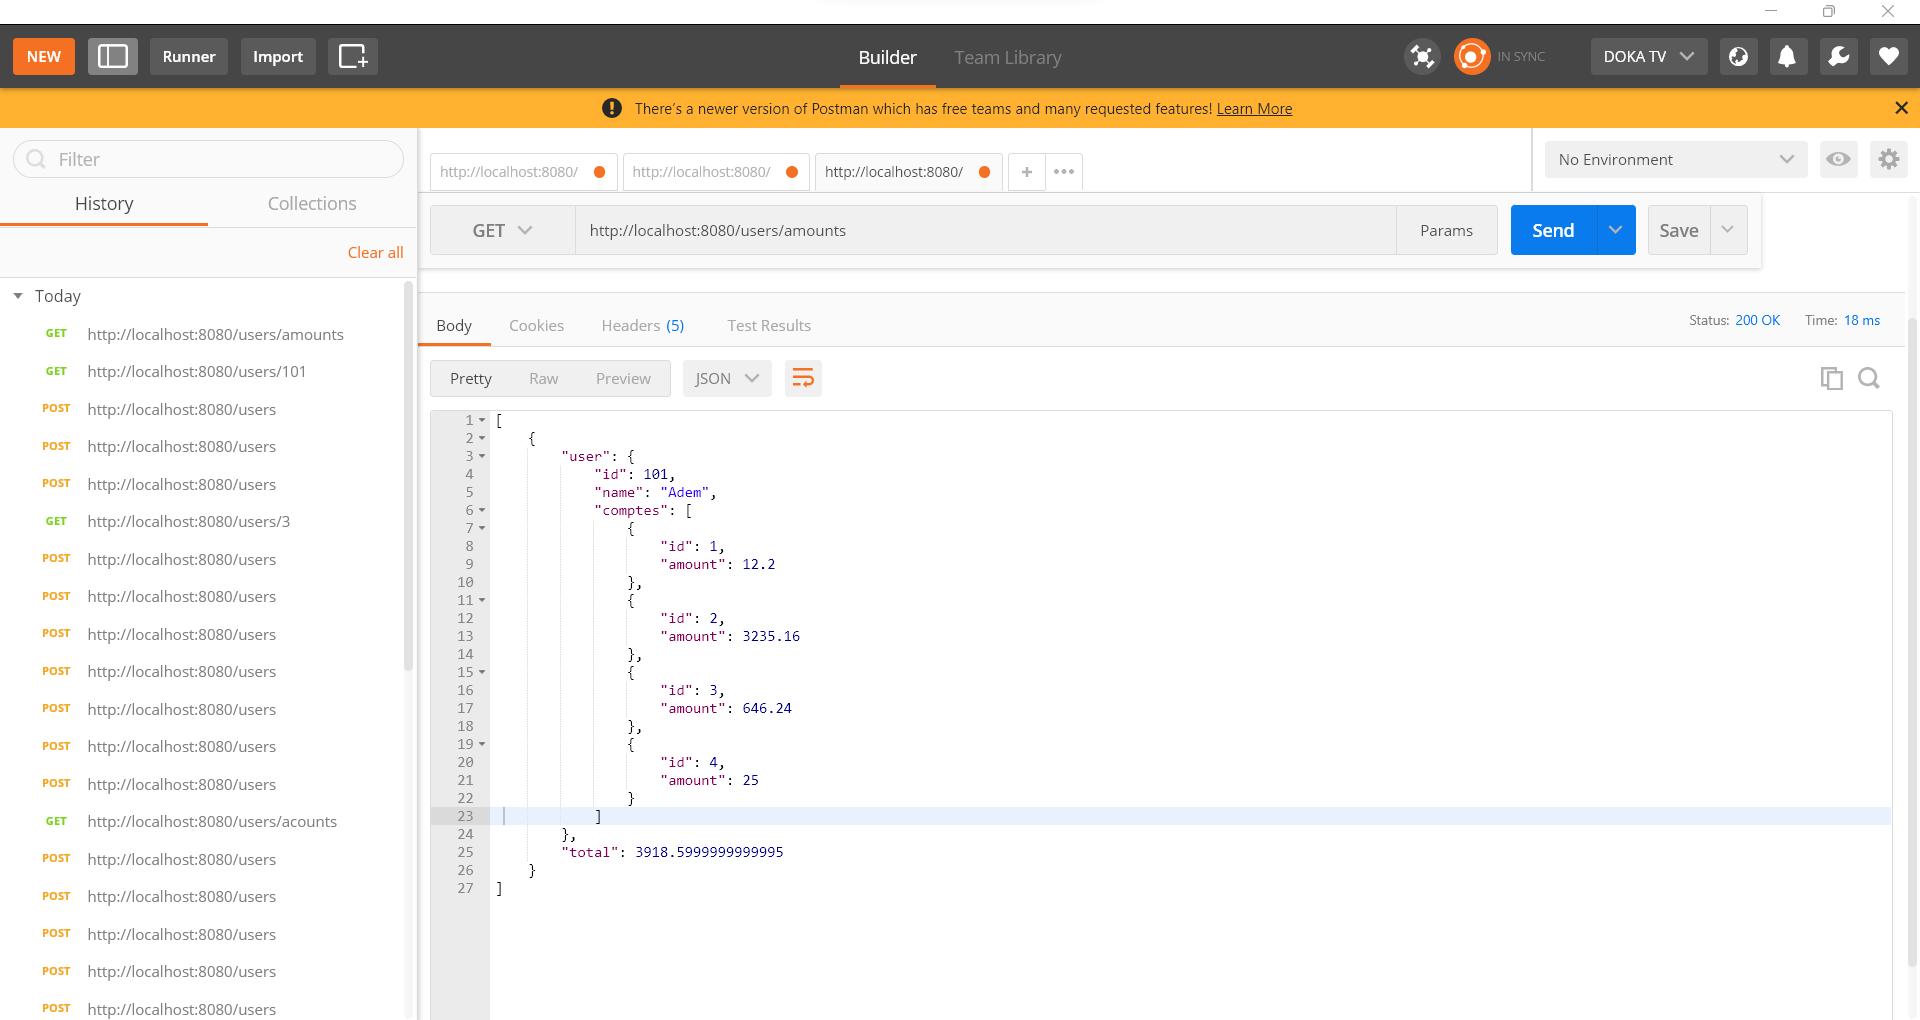
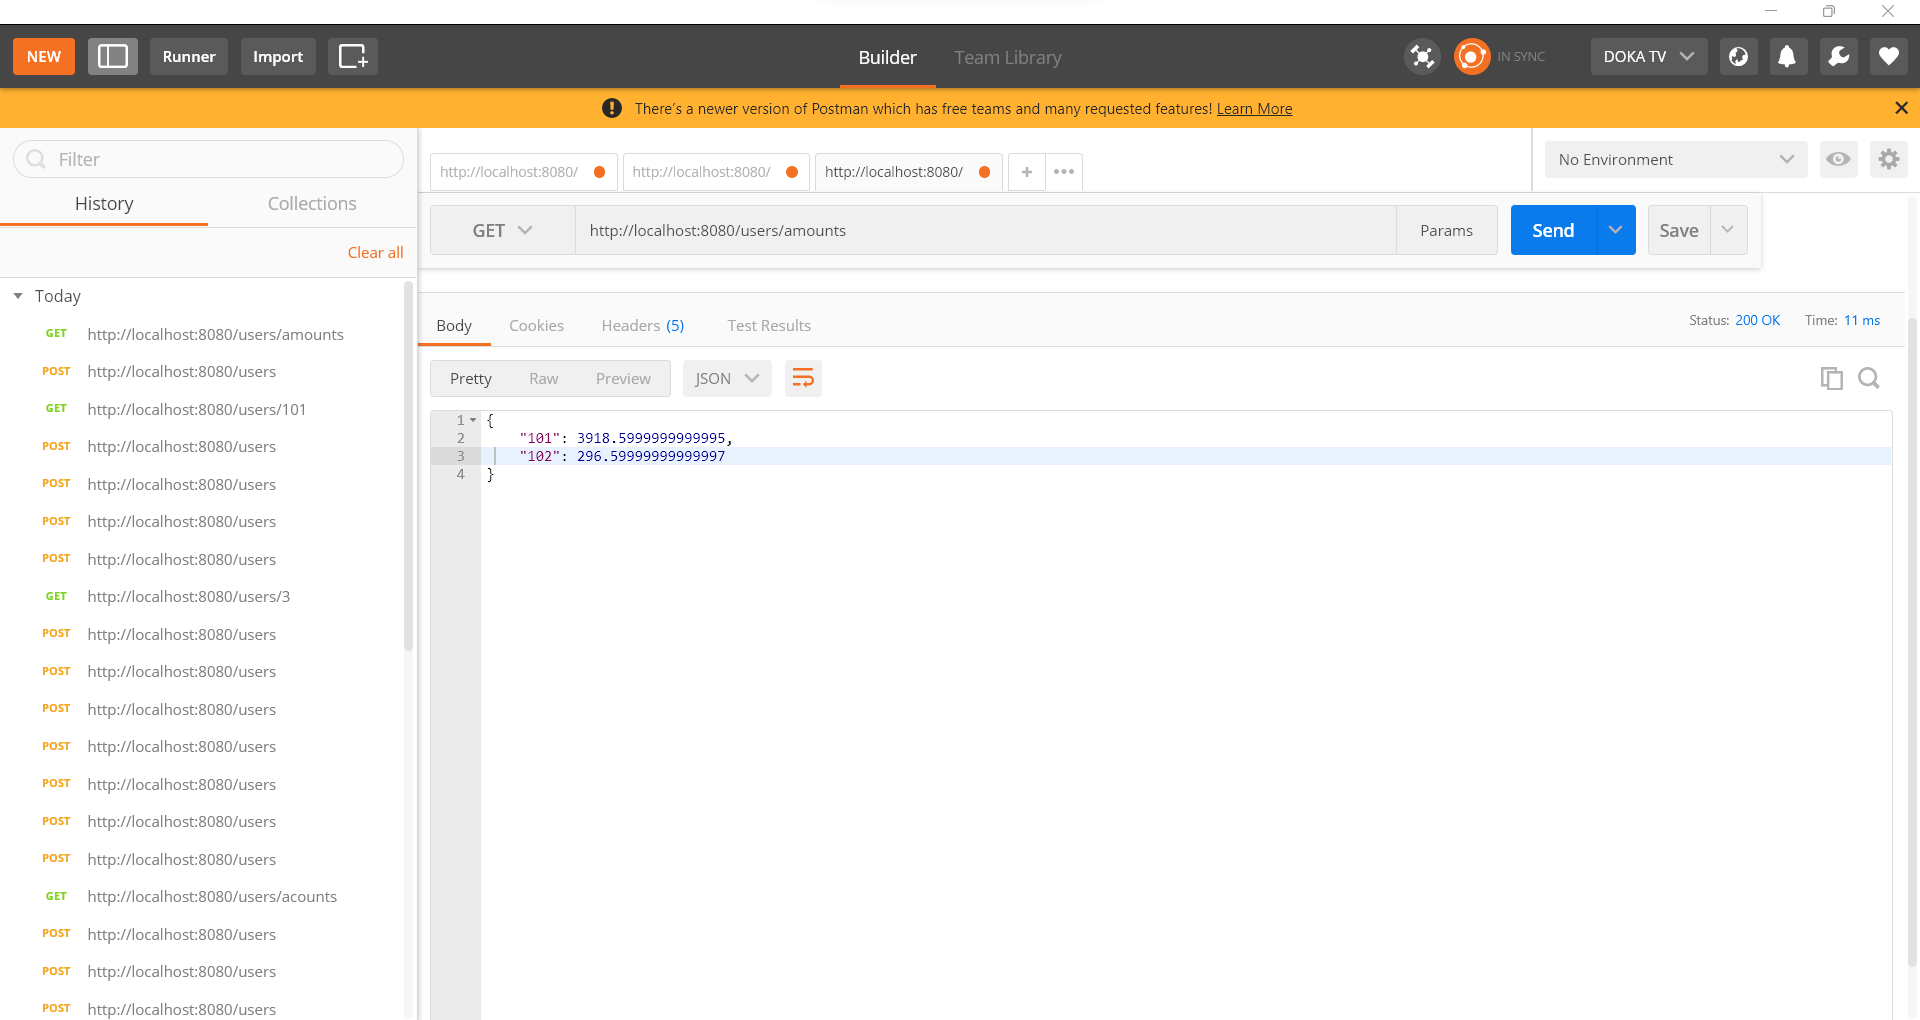
screenshots

diff --git a/src/main/java/com/wbo/springkafkastarter/service/KafkaListenerService.java b/src/main/java/com/wbo/springkafkastarter/service/KafkaListenerService.java
@@ -1,14 +1,13 @@
 package com.wbo.springkafkastarter.service;
 
 import com.wbo.springkafkastarter.dtos.UserDto;
-import com.wbo.springkafkastarter.dtos.UserResponse;
 import lombok.RequiredArgsConstructor;
 import lombok.extern.slf4j.Slf4j;
 import org.apache.kafka.clients.consumer.ConsumerRecord;
 import org.springframework.kafka.annotation.KafkaListener;
 import org.springframework.stereotype.Service;
 
-import java.util.List;
+import java.util.Map;
 import java.util.concurrent.ConcurrentHashMap;
 import java.util.stream.Collectors;
 
@@ -30,9 +29,10 @@ public class KafkaListenerService {
         return exist.isPresent() ? data.get(exist.get()) : null;
     }
 
-    public List<UserResponse> total() {
+    public Map<Long, Double> total() {
         return data.values().stream()
-                .map(userDto -> new UserResponse(userDto, userDto.getComptes().stream().mapToDouble(value -> value.getAmount()).sum())).collect(Collectors.toList());
+                .collect(Collectors.toMap(UserDto::getId,
+                        userDto -> userDto.getComptes().stream().mapToDouble(value -> value.getAmount()).sum()));
     }
 
 
